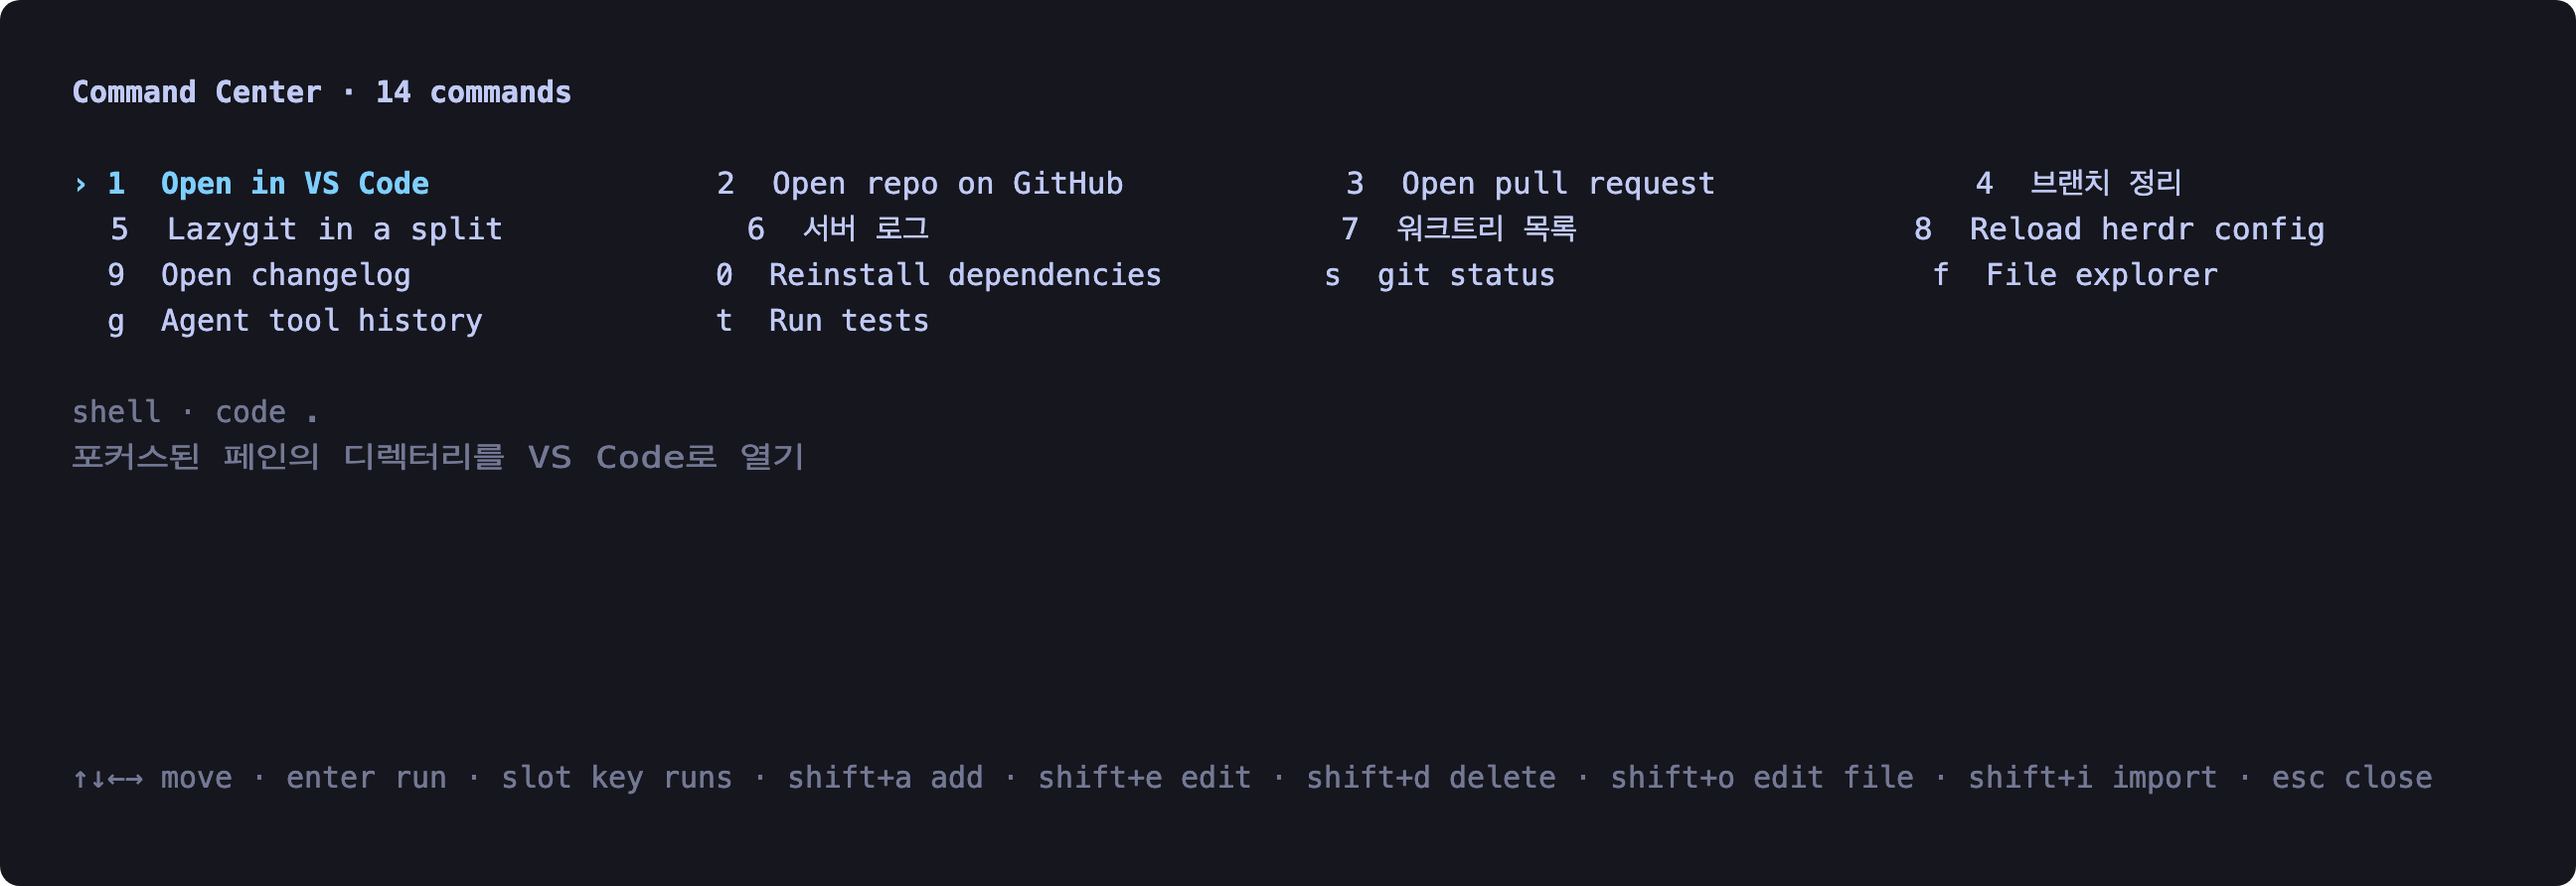
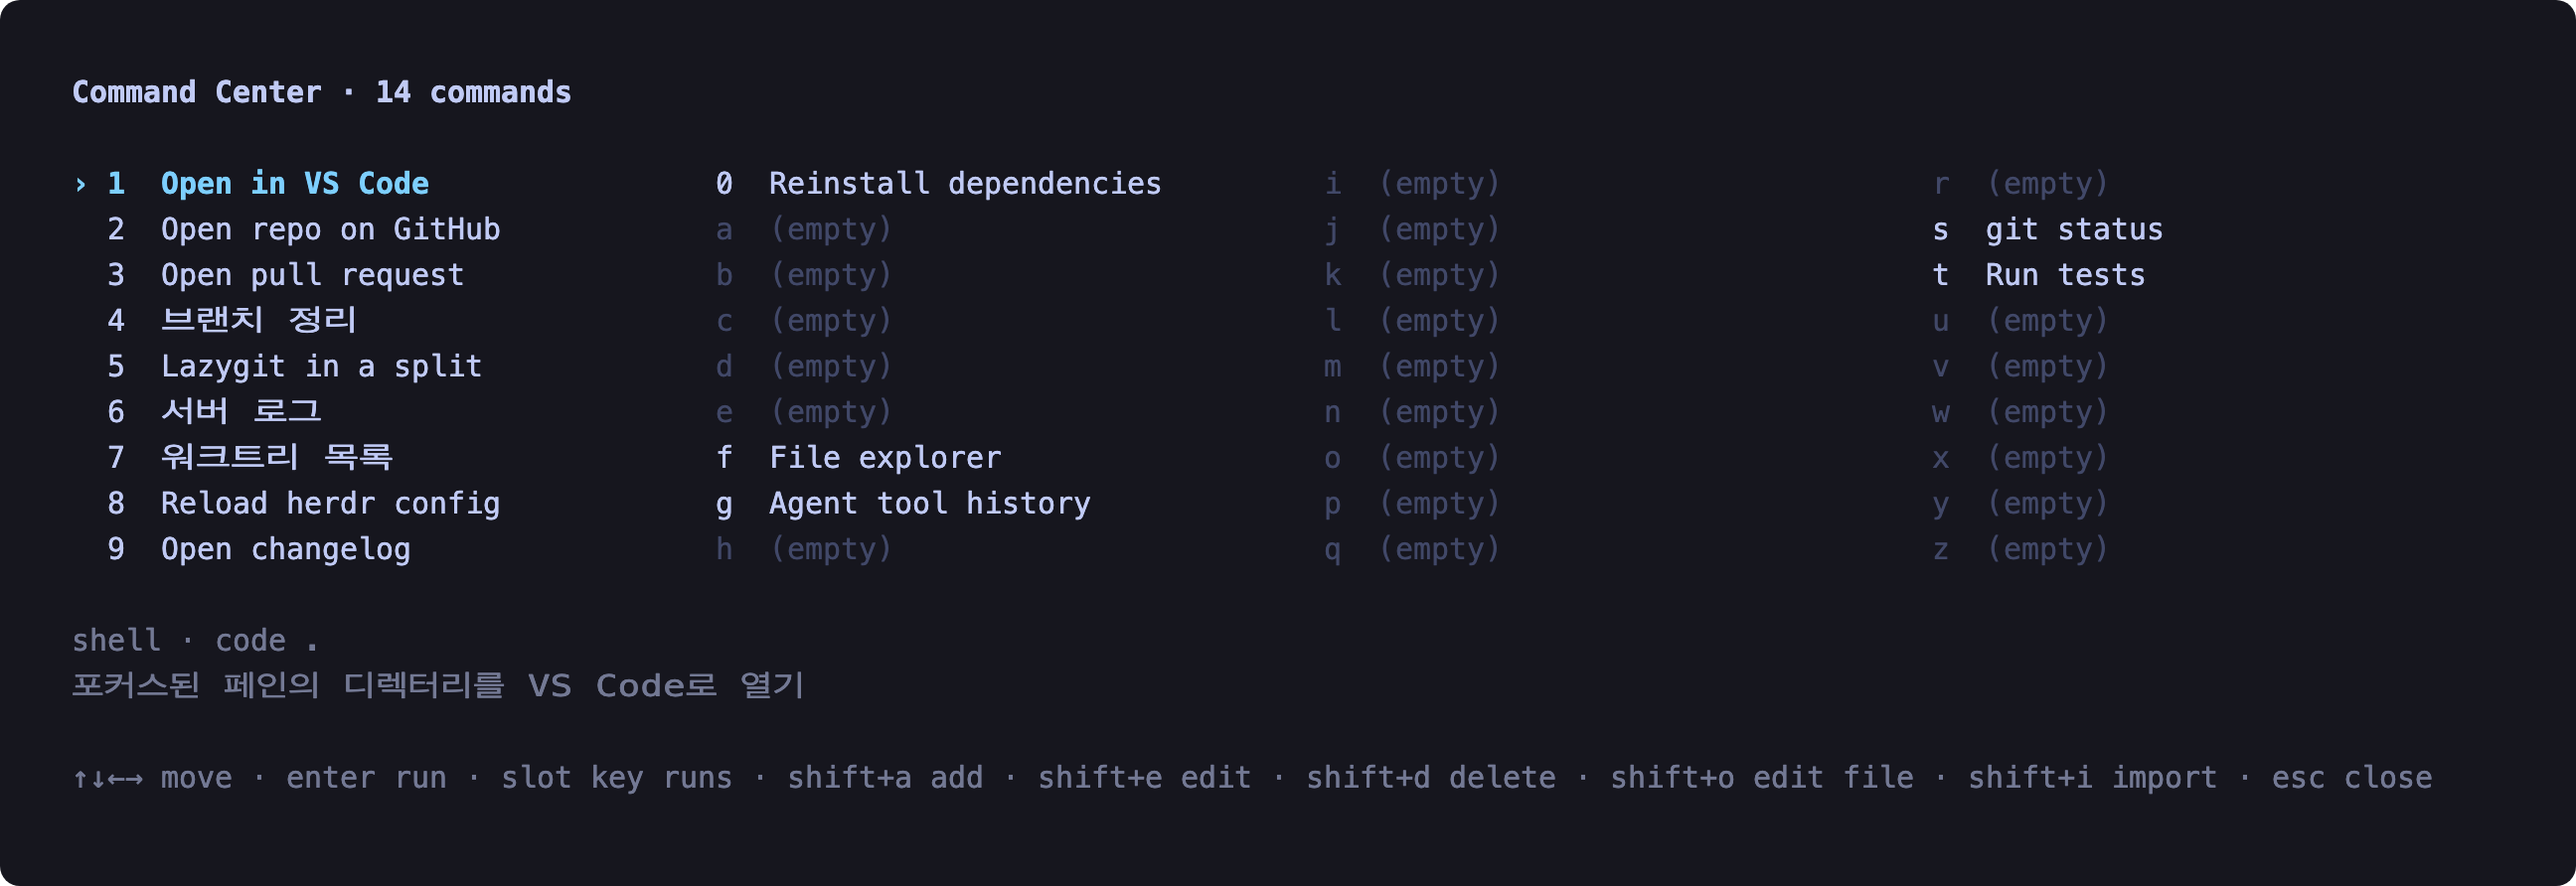
docs: describe the slot grid and the seeded editors, new screenshots
The SVG renderer learns [90m so the faded empty cells appear in the
shots, pins each word to its own cells (textLength across a whole run
let a Korean label drag the next grid column out of line), and pins
COLORFGBG in the capture env so a regeneration elsewhere cannot flip
to the light palette.

diff --git a/tools/screenshots.py b/tools/screenshots.py
@@ -192,6 +192,7 @@ def capture(name, config_text, keys, rows, settle=0.75):
         'COMMAND_CENTER_CONTEXT_JSON': json.dumps(
             {'focusedPaneCwd': '/Users/cdragon/dev/herdr', 'workspaceCwd': '/Users/cdragon/dev'}),
         'TERM': 'xterm-256color',
+        'COLORFGBG': '15;0',
         'COLUMNS': str(COLS),
         'LINES': str(rows),
     })
@@ -264,6 +265,7 @@ BG = '#16161e'
 FG = '#c0caf5'
 CYAN = '#7dcfff'
 YELLOW = '#e0af68'
+FAINT = '#414868'  # bright-black: what [90m resolves to in a tokyo-night-ish theme
 DIM_OPACITY = '0.55'
 
 FONT = ("ui-monospace, SFMono-Regular, 'SF Mono', Menlo, Consolas, "
@@ -324,6 +326,8 @@ def runs(line):
                 style['color'] = YELLOW
             elif code == '32':
                 style['color'] = '#9ece6a'
+            elif code == '90':
+                style['color'] = FAINT
         pos = m.end()
     if pos < len(line):
         out.append((line[pos:], dict(style)))
@@ -352,26 +356,28 @@ def render(frame, cols=88):
         y = PAD_Y + row * LINE_H + FONT_SIZE * 0.82
         col = 0
         for text, style in runs(line):
-            stripped = text
-            if stripped.strip():
-                x = PAD_X + col * CELL_W
-                attrs = [f'x="{x:.2f}"', f'y="{y:.2f}"']
-                attrs.append(f'fill="{style["color"] or FG}"')
-                if style['bold']:
-                    attrs.append('font-weight="600"')
-                if style['dim']:
-                    attrs.append(f'opacity="{DIM_OPACITY}"')
-                attrs.append('xml:space="preserve"')
-                # Pin the run to exactly the cells it occupies. Without this the
-                # browser's CJK fallback font does not advance exactly two cells
-                # per syllable, so everything after a Korean label drifts and the
-                # picture shows a misalignment the real terminal does not have.
-                cells = display_width(text)
-                if cells:
-                    attrs.append(f'textLength="{cells * CELL_W:.2f}"')
-                    attrs.append('lengthAdjust="spacingAndGlyphs"')
-                parts.append(f'<text {" ".join(attrs)}>{html.escape(text)}</text>')
-            col += display_width(text)
+            # Pin each word to exactly the cells it occupies. textLength alone is
+            # not enough when one run spans several grid cells: the browser's CJK
+            # fallback font does not advance exactly two cells per syllable, and
+            # spacingAndGlyphs smears the correction across the whole run, which
+            # drags the *next* grid column out of line. Splitting at the gaps
+            # (2+ spaces) pins every column edge individually.
+            for segment in re.split(r'( {2,})', text):
+                if segment.strip():
+                    x = PAD_X + col * CELL_W
+                    attrs = [f'x="{x:.2f}"', f'y="{y:.2f}"']
+                    attrs.append(f'fill="{style["color"] or FG}"')
+                    if style['bold']:
+                        attrs.append('font-weight="600"')
+                    if style['dim']:
+                        attrs.append(f'opacity="{DIM_OPACITY}"')
+                    attrs.append('xml:space="preserve"')
+                    cells = display_width(segment)
+                    if cells:
+                        attrs.append(f'textLength="{cells * CELL_W:.2f}"')
+                        attrs.append('lengthAdjust="spacingAndGlyphs"')
+                    parts.append(f'<text {" ".join(attrs)}>{html.escape(segment)}</text>')
+                col += display_width(segment)
     if caret is not None:
         crow, ccol = caret
         x = PAD_X + ccol * CELL_W

diff --git a/README.ko.md b/README.ko.md
@@ -13,6 +13,15 @@ git status 커맨드가 바로 실행됩니다 — 방향키도, 그게 어느 p
 필요도 없습니다. 그리드 아래 줄은 선택한 커맨드가 실제로 무엇을 하는지 실행 전에
 보여줍니다.
 
+그리드는 슬롯 36개를 모두 그리며, 각 열을 위에서 아래로 채웁니다. 아직 비어 있는
+슬롯은 테마의 bright-black — 테마 제작자가 이미 배경 바로 옆에 두라고 골라둔 색 —
+으로 `(empty)`라고 표시되므로, 무엇이 차 있고 무엇이 남았는지 한눈에 들어옵니다.
+빈 슬롯에서 `Enter`를 누르면 그 슬롯이 미리 지정된 추가 폼이 열립니다.
+
+밝은 터미널에서는 대신 bright-white를 써서, 그쪽 배경으로도 똑같이 물러납니다.
+어느 쪽인지는 `COLORFGBG`로 판별하고, 알려주지 않는 터미널은 어두운 쪽으로
+간주합니다.
+
 핵심은 외우지 않아도 된다는 점입니다. herdr 플러그인이 늘어날수록 각자
 `prefix+<키>`를 하나씩 차지하는데, 어느 순간부터 어떤 키가 무엇인지 기억할 수
 없게 됩니다. Command Center는 그 전부를 문 하나로 모읍니다.
@@ -68,7 +77,7 @@ herdr server reload-config
 | `1`–`9`, `0`, `a`–`z` | 해당 슬롯의 커맨드 실행 | 포커스된 텍스트 필드에 입력됨 |
 | `↑` `↓` `←` `→` | 그리드 안에서 이동 | 이전 / 다음 필드 |
 | `Tab` / `Shift-Tab` | — | 다음 / 이전 필드 |
-| `Enter` | 선택한 커맨드 실행 | 저장 |
+| `Enter` | 선택한 커맨드 실행, 빈 슬롯이면 그 자리에 추가 | 저장 |
 | `shift+a` | 커맨드 추가 | — |
 | `shift+e` | 선택한 커맨드 수정 | — |
 | `shift+d` 다음 `y` | 선택한 커맨드 삭제 | — |
@@ -81,7 +90,8 @@ herdr server reload-config
 
 **소문자·숫자는 실행, 대문자는 동작입니다.** 커맨드를 실행하는 키는 `slot`으로
 커맨드에 함께 저장되므로, 목록 순서를 바꿔도 변하지 않습니다 — `d`는 언제나
-`d` 슬롯의 커맨드를 실행합니다. 슬롯 36개를 모두 쓸 수 있습니다.
+`d` 슬롯의 커맨드를 실행합니다. 슬롯 36개를 모두 쓸 수 있고, 아직 비어 있더라도
+36개 전부가 화면에 나옵니다.
 
 여기서 두 가지가 따라옵니다. `j`·`k`가 슬롯이 되었으니 이동은 방향키로만 하고,
 `q`가 슬롯이 되었으니 팝업은 `Esc`로 닫습니다.
@@ -153,10 +163,20 @@ editor = ["code --new-window", "nvim", "vim"]
 
 플래그가 붙은 첫 항목을 포함해 세 개의 후보입니다.
 
+새로 만들어지는 `commands.toml`에는 플러그인이 아는 에디터가 전부 들어갑니다 —
+`code`, `cursor`, `zed`, `subl`, `nvim`, `vim`, `hx`, `nano`. 찾아내야 하는
+목록이 아니라 지워서 줄이는 목록입니다. `PATH`에 없는 항목은 선택 화면에
+뜨기 전에 걸러집니다. 설치되지 않은 에디터를 고르면 `command not found`가
+detached 프로세스로 흘러가 아무 일도 안 일어난 것처럼 보이기 때문입니다.
+인자가 붙은 항목은 `$VISUAL`·`$EDITOR`와 마찬가지로 그대로 신뢰하며 걸러내지
+않습니다.
+
+매번 묻는 게 싫으면 항목을 하나만 남기면 됩니다.
+
 | 필드 | 의미 |
 | --- | --- |
 | `schema_version` | 항상 `1`. |
-| `editor` | 후보 에디터 목록, 한 줄당 커맨드 하나. 하나만 있으면 바로 열리고, 여러 개면 팝업이 무엇을 열지 묻습니다. 생략하거나 비워두면 `$VISUAL`, `$EDITOR`, `PATH` 순으로 자동 감지합니다. |
+| `editor` | 후보 에디터 목록, 한 줄당 커맨드 하나. 첫 실행 때 전부 채워집니다. `PATH`에 없는 항목을 걸러낸 뒤, 하나만 남으면 바로 열리고 여러 개면 팝업이 무엇을 열지 묻습니다. 비워두면 `$VISUAL`, `$EDITOR`, `PATH` 순으로 자동 감지합니다. |
 | `id` | 고정 식별자. 생략하면 label에서 만들어집니다(한글 label도 읽을 수 있는 id가 됩니다). |
 | `slot` | 실행 키: `1`-`9`, `0`, `a`-`z` 중 하나. 생략하면 비어 있는 다음 슬롯이 배정됩니다. |
 | `label` | 팝업에 보이는 이름. 최대 80자. |

diff --git a/README.md b/README.md
@@ -14,6 +14,17 @@ git-status command runs — no arrow keys, no remembering which prefix key it wa
 under. The line under the grid shows what the highlighted command actually does
 before you commit to it.
 
+The grid draws all 36 slots, filling top to bottom down each column, and marks
+the unclaimed ones `(empty)` in your theme's bright-black — the colour the theme
+author already placed just off their own background. What is taken and what is
+still free is one glance rather than a guess, and `Enter` on an empty slot opens
+the add form already aimed at it.
+
+On a light terminal the empty cells use bright-white instead, so they recede
+toward that background too. Which side you are on is read from `COLORFGBG`;
+terminals that do not report it are treated as dark, which is what a terminal
+running a TUI almost always is.
+
 The point is that you stop memorizing. As you install more herdr plugins, each
 one wants its own `prefix+<key>`, and eventually you cannot remember which key
 does what. Command Center gives all of them one door.
@@ -71,7 +82,7 @@ herdr server reload-config
 | `1`–`9`, `0`, `a`–`z` | run the command in that slot | typed into the focused text field |
 | `↑` `↓` `←` `→` | move through the grid | previous / next field |
 | `Tab` / `Shift-Tab` | — | next / previous field |
-| `Enter` | run the highlighted command | save |
+| `Enter` | run the highlighted command, or fill it if the slot is empty | save |
 | `shift+a` | add a command | — |
 | `shift+e` | edit the highlighted command | — |
 | `shift+d` then `y` | delete the highlighted command | — |
@@ -84,7 +95,8 @@ herdr server reload-config
 
 **Lowercase and digits run; uppercase acts.** The key that runs a command is
 stored with the command as its `slot`, so it never changes when the list is
-reordered — `d` runs whatever lives in slot `d`. All 36 slots are usable.
+reordered — `d` runs whatever lives in slot `d`. All 36 slots are usable, and
+all 36 are on screen whether or not anything claims them yet.
 
 Two things follow from that. `j` and `k` are slots now, so moving around is
 arrow keys only. `q` is a slot now, so `Esc` is how you close the popup.
@@ -158,10 +170,20 @@ editor = ["code --new-window", "nvim", "vim"]
 
 That is three candidates, the first of which passes a flag.
 
+A fresh `commands.toml` is seeded with every editor the plugin knows about —
+`code`, `cursor`, `zed`, `subl`, `nvim`, `vim`, `hx`, `nano` — so the list is
+something you edit down rather than something you have to discover. Entries that
+are not on your `PATH` are dropped before the picker sees them, because opening
+an editor that is not installed would spawn `command not found` into a detached
+process you would never see. An entry carrying its own arguments is taken on
+trust and never filtered, the same way `$VISUAL` and `$EDITOR` are.
+
+Trim the list to one entry to stop being asked.
+
 | Field | Meaning |
 | --- | --- |
 | `schema_version` | Always `1`. |
-| `editor` | Candidate editors, one command line per entry. One entry opens straight away; several make the popup ask which. Omit it or leave it empty to auto-detect from `$VISUAL`, `$EDITOR`, then your `PATH`. |
+| `editor` | Candidate editors, one command line per entry; seeded with all of them on first run. Whatever is not on your `PATH` is dropped, then one surviving entry opens straight away and several make the popup ask which. Leave it empty to auto-detect from `$VISUAL`, `$EDITOR`, then your `PATH`. |
 | `id` | stable identifier. Omit it and one is derived from the label (Korean labels keep readable ids). |
 | `slot` | the key that runs it: one of `1`-`9`, `0`, `a`-`z`. Omit it and the next free slot is assigned. |
 | `label` | what the popup shows. Up to 80 characters. |
